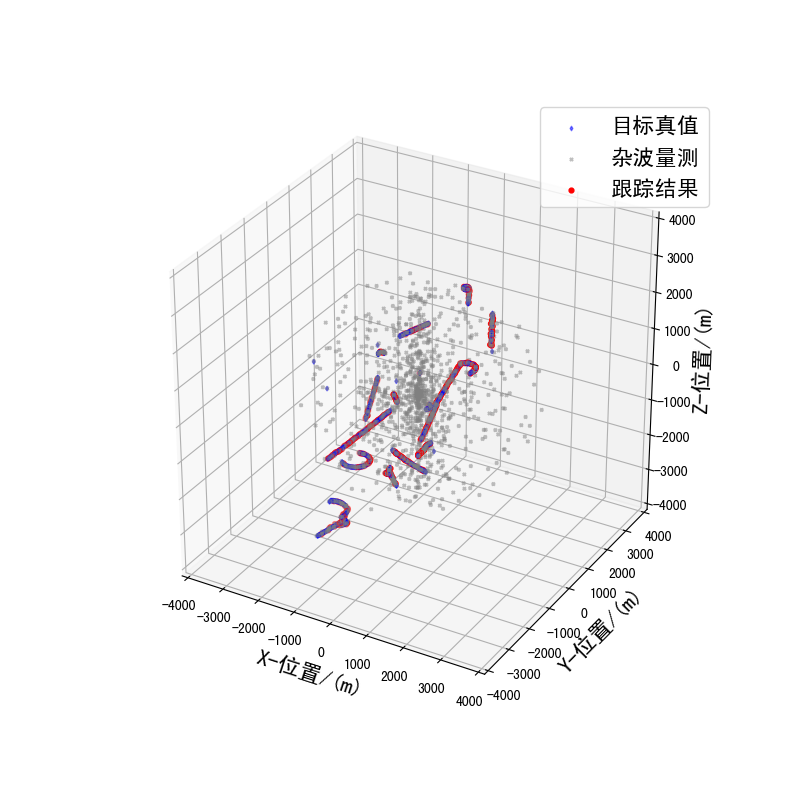
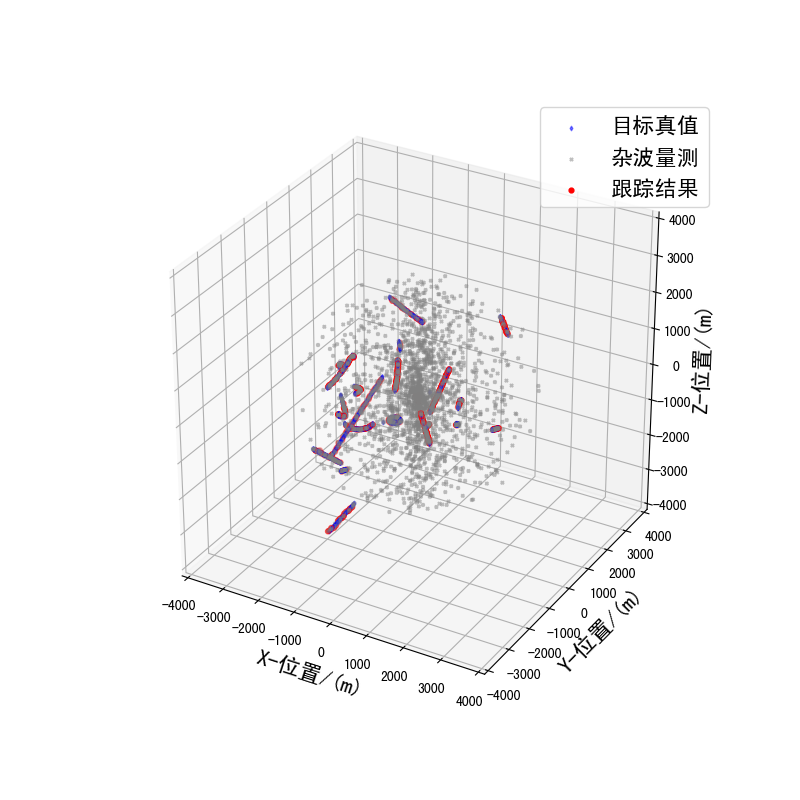
权值外算，优化速度

Changed region(s): [[0.375, 0.3438, 0.6562, 0.6875]]

diff --git a/3D/rfs/filters.py b/3D/rfs/filters.py
@@ -239,7 +239,9 @@ class LGMPHD_3D(BayesianFilter):
             qkz = v_temp.pdf_i_list(z)
             norm = np.sum(qkz) + cdf(z)
             # 利用KF的更新步骤更新m和P，L将沿用
-            for i in range(v_temp.J):
+            w_tmp = qkz / norm
+            I = (w_tmp > 0.2).nonzero()[0]
+            for i in I:
                 w_.append(qkz[i] / norm)
                 K = v.P[i] @ self.H.T @ np.linalg.pinv(v_temp.P[i]) # kalman增益
                 m_.append(v.m[i] + K @ (z - v_temp.m[i]))
@@ -287,7 +289,9 @@ class LGMPHD_3D(BayesianFilter):
             qkz = v_temp.pdf_i_list(z)
             norm = np.sum(qkz) + cdf(z)
             # 利用KF的更新步骤更新m和P，L将沿用
-            for i in range(v_temp.J):
+            w_tmp = qkz / norm
+            I = (w_tmp > 0.2).nonzero()[0]
+            for i in I:
                 w_.append(qkz[i] / norm)
                 K = v_b.P[i] @ self.H.T @ np.linalg.pinv(v_temp.P[i]) # kalman增益
                 m_.append(v_b.m[i] + K @ (z - v_temp.m[i]))

diff --git a/rfs/filters.py b/rfs/filters.py
@@ -228,7 +228,9 @@ class LGMPHD_2D(BayesianFilter):
             qkz = v_temp.pdf_i_list(z)
             norm = np.sum(qkz) + cdf(z)
             # 利用KF的更新步骤更新m和P，L将沿用
-            for i in range(v_temp.J):
+            w_tmp = qkz / norm
+            I = (w_tmp > 0.2).nonzero()[0]
+            for i in I:
                 w_.append(qkz[i] / norm)
                 K = v.P[i] @ self.H.T @ np.linalg.pinv(v_temp.P[i]) # kalman增益
                 m_.append(v.m[i] + K @ (z - v_temp.m[i]))
@@ -276,7 +278,9 @@ class LGMPHD_2D(BayesianFilter):
             qkz = v_temp.pdf_i_list(z)
             norm = np.sum(qkz) + cdf(z)
             # 利用KF的更新步骤更新m和P，L将沿用
-            for i in range(v_temp.J):
+            w_tmp = qkz / norm
+            I = (w_tmp > 0.2).nonzero()[0]
+            for i in I:
                 w_.append(qkz[i] / norm)
                 K = v_b.P[i] @ self.H.T @ np.linalg.pinv(v_temp.P[i]) # kalman增益
                 m_.append(v_b.m[i] + K @ (z - v_temp.m[i]))

diff --git a/3D/examples.py b/3D/examples.py
@@ -36,7 +36,7 @@ def example1():
 
     # 生成量测+滤波
     for i in range(n):
-        lc = 10 # 杂波服从的泊松分布参数
+        lc = 20 # 杂波服从的泊松分布参数
         kz = Poisson(lc)    # 杂波泊松分布
         meas_cart = []  # 直角坐标系下量测
         [meas_cart.append([]) for _ in range(K)]
